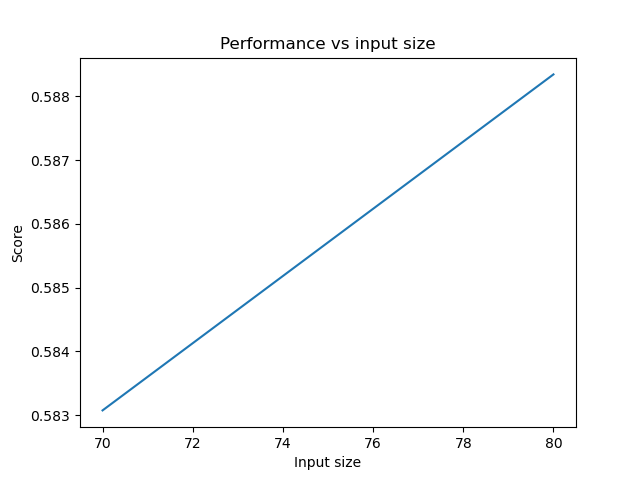
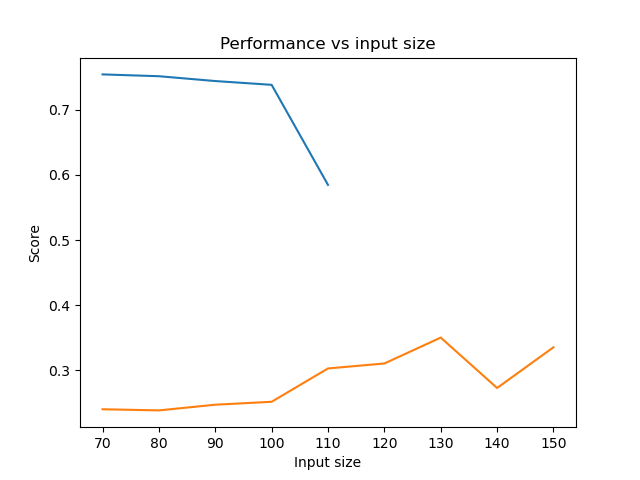
...

diff --git a/code/find_optimal_input_size.py b/code/find_optimal_input_size.py
@@ -12,6 +12,8 @@ from get_cnn_model import get_model
 from tensorflow.keras.models import load_model
 import matplotlib.pyplot as plt
 from PARAMETERS import *
+from sklearn.metrics import mean_squared_error
+
 
 
 tf.random.set_seed(1)
@@ -34,8 +36,10 @@ def evaluate_model(x_train, y_train, x_val, y_val, hyper_params=HyperParams()):
     y_val = y_val.reshape(len(y_val))
     # evaluate model performance
     pr_corr = pearsonr(y_hat, y_val)[0]
+    mse = mean_squared_error(y_val, y_hat)
+    print(f"mse = {mse}")
     print(f"val corr = {pr_corr}")
-    return pr_corr, model
+    return pr_corr, mse
 
 
 def plot_scores(corr_list, rng, debug):
@@ -56,25 +60,29 @@ def main(hyper_params, iterations, debug):
         y_train = y_train[:1000]
 
     scores = []
-    rng = range(70, 240, 10) if not debug else range(70, 90, 10)
+    mse_scores = []
+    rng = range(70, 160, 10) if not debug else range(70, 90, 10)
     for s in rng:
         print(f"size = {s}")
         hyper_params.input_size = s
         [x_train_i, x_val_i] = set_data_size(s, [x_train, x_val])
         corr_list = []
+        mse_list = []
         it_time = time.time()
         for i in range(iterations):
             print(f"iteration: {i}/{iterations}")
             hyper_params.seed = random.randint(1, 1000)
-            pr_corr, model = evaluate_model(x_train_i, y_train, x_val_i, y_val, hyper_params)
+            pr_corr, mse = evaluate_model(x_train_i, y_train, x_val_i, y_val, hyper_params)
             corr_list.append(pr_corr)
+            mse_list.append(mse)
         print(f"correlation = {sum(corr_list)/len(corr_list)} +-{np.std(corr_list)}")
+        print(f"mse = {sum(mse_list)/len(mse_list)} +-{np.std(mse_list)}")
         scores.append(sum(corr_list)/len(corr_list))
+        mse_scores.append(sum(mse_list)/len(mse_list))
         print(f"Finished {s}- execution time = %ss ---\n\n" % (round(time.time() - it_time)))
 
     plot_scores(scores, rng, debug)
-
-
+    plot_scores(mse_scores, rng, debug)
 
 
 

diff --git a/code/calculate_correlation.py b/code/calculate_correlation.py
@@ -39,7 +39,7 @@ def get_rG4detector_mouse_corr(model, mouse_df):
 
 def get_screener_scores(screener_preds, y):
     screener_scores = {}
-    preds = pd.read_csv(screener_preds, usecols=METHODS_LIST, sep="\t")
+    preds = pd.read_csv(screener_preds, usecols=['description'] + METHODS_LIST, sep="\t")
     preds = preds.groupby(['description']).max()
 
     labels = y.reshape(len(y))
@@ -49,8 +49,7 @@ def get_screener_scores(screener_preds, y):
 
         if min(p) <= 0:
             const = -min(p) + 10 ** -3
-        p = p + const
-        p = np.log(p)
+        p = np.log(p + const)
         pr, _ = pearsonr(p, labels)
         screener_scores[col] = round(pr, 3)
     return screener_scores
